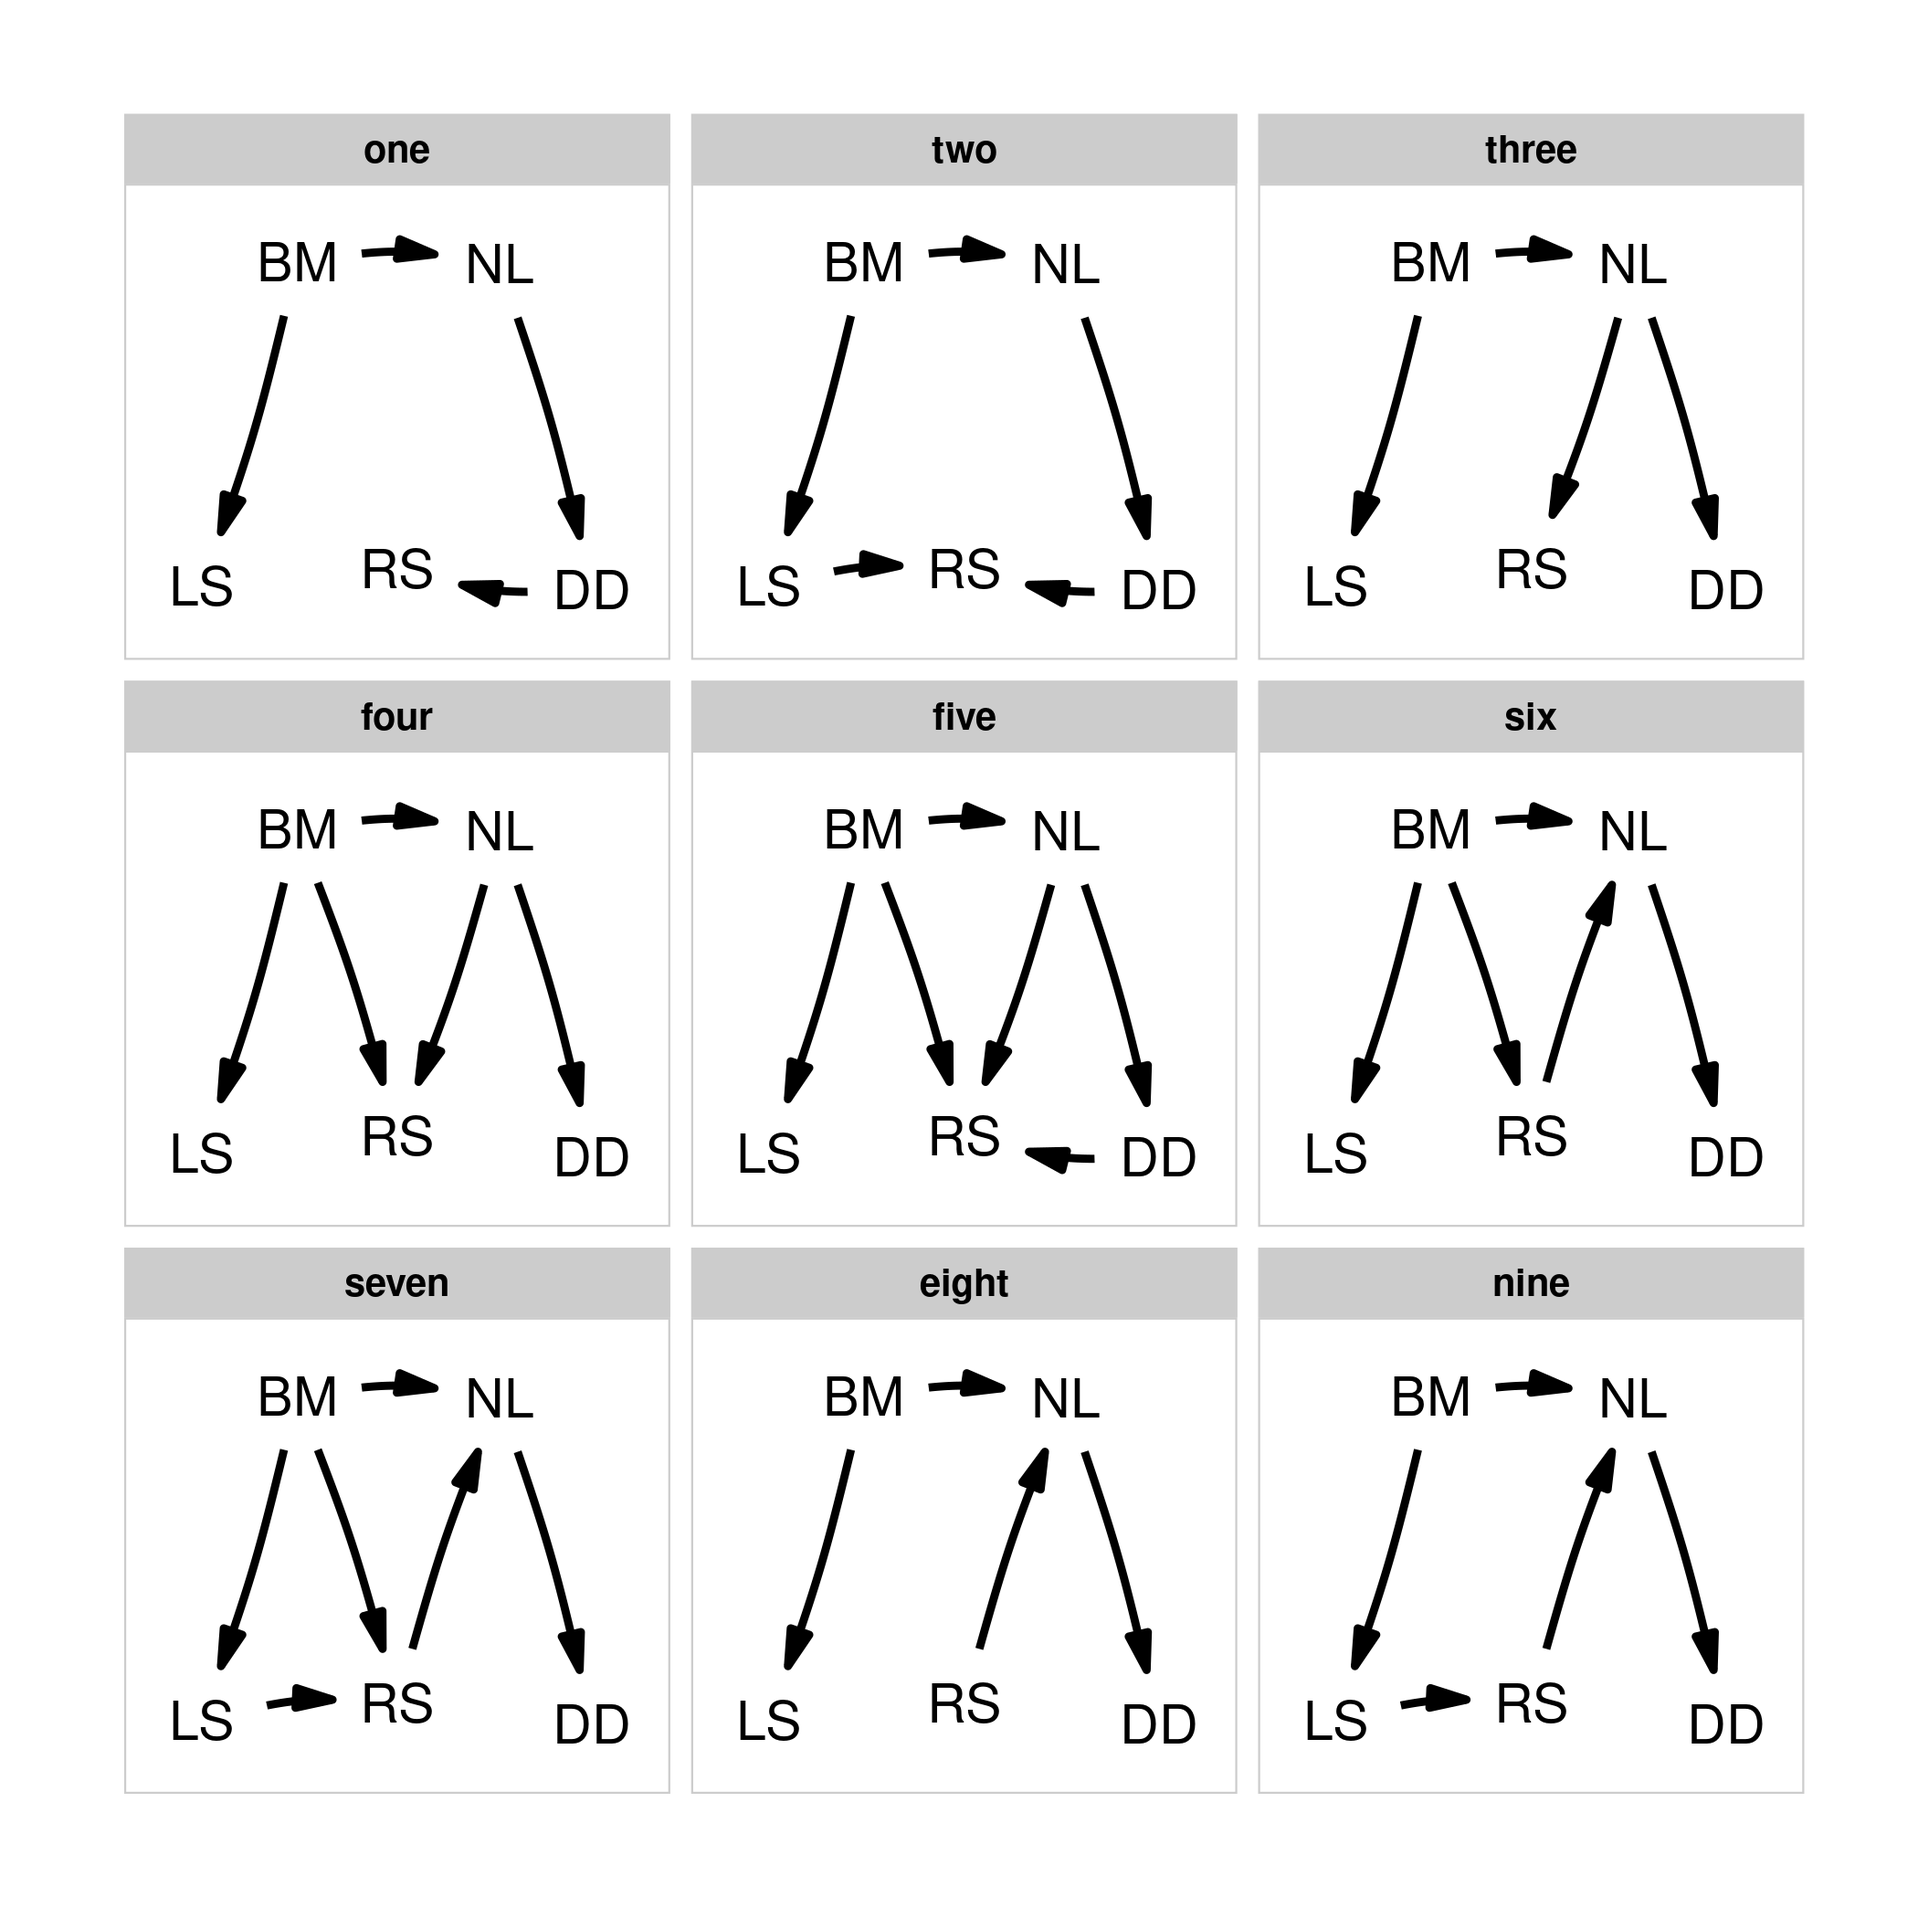
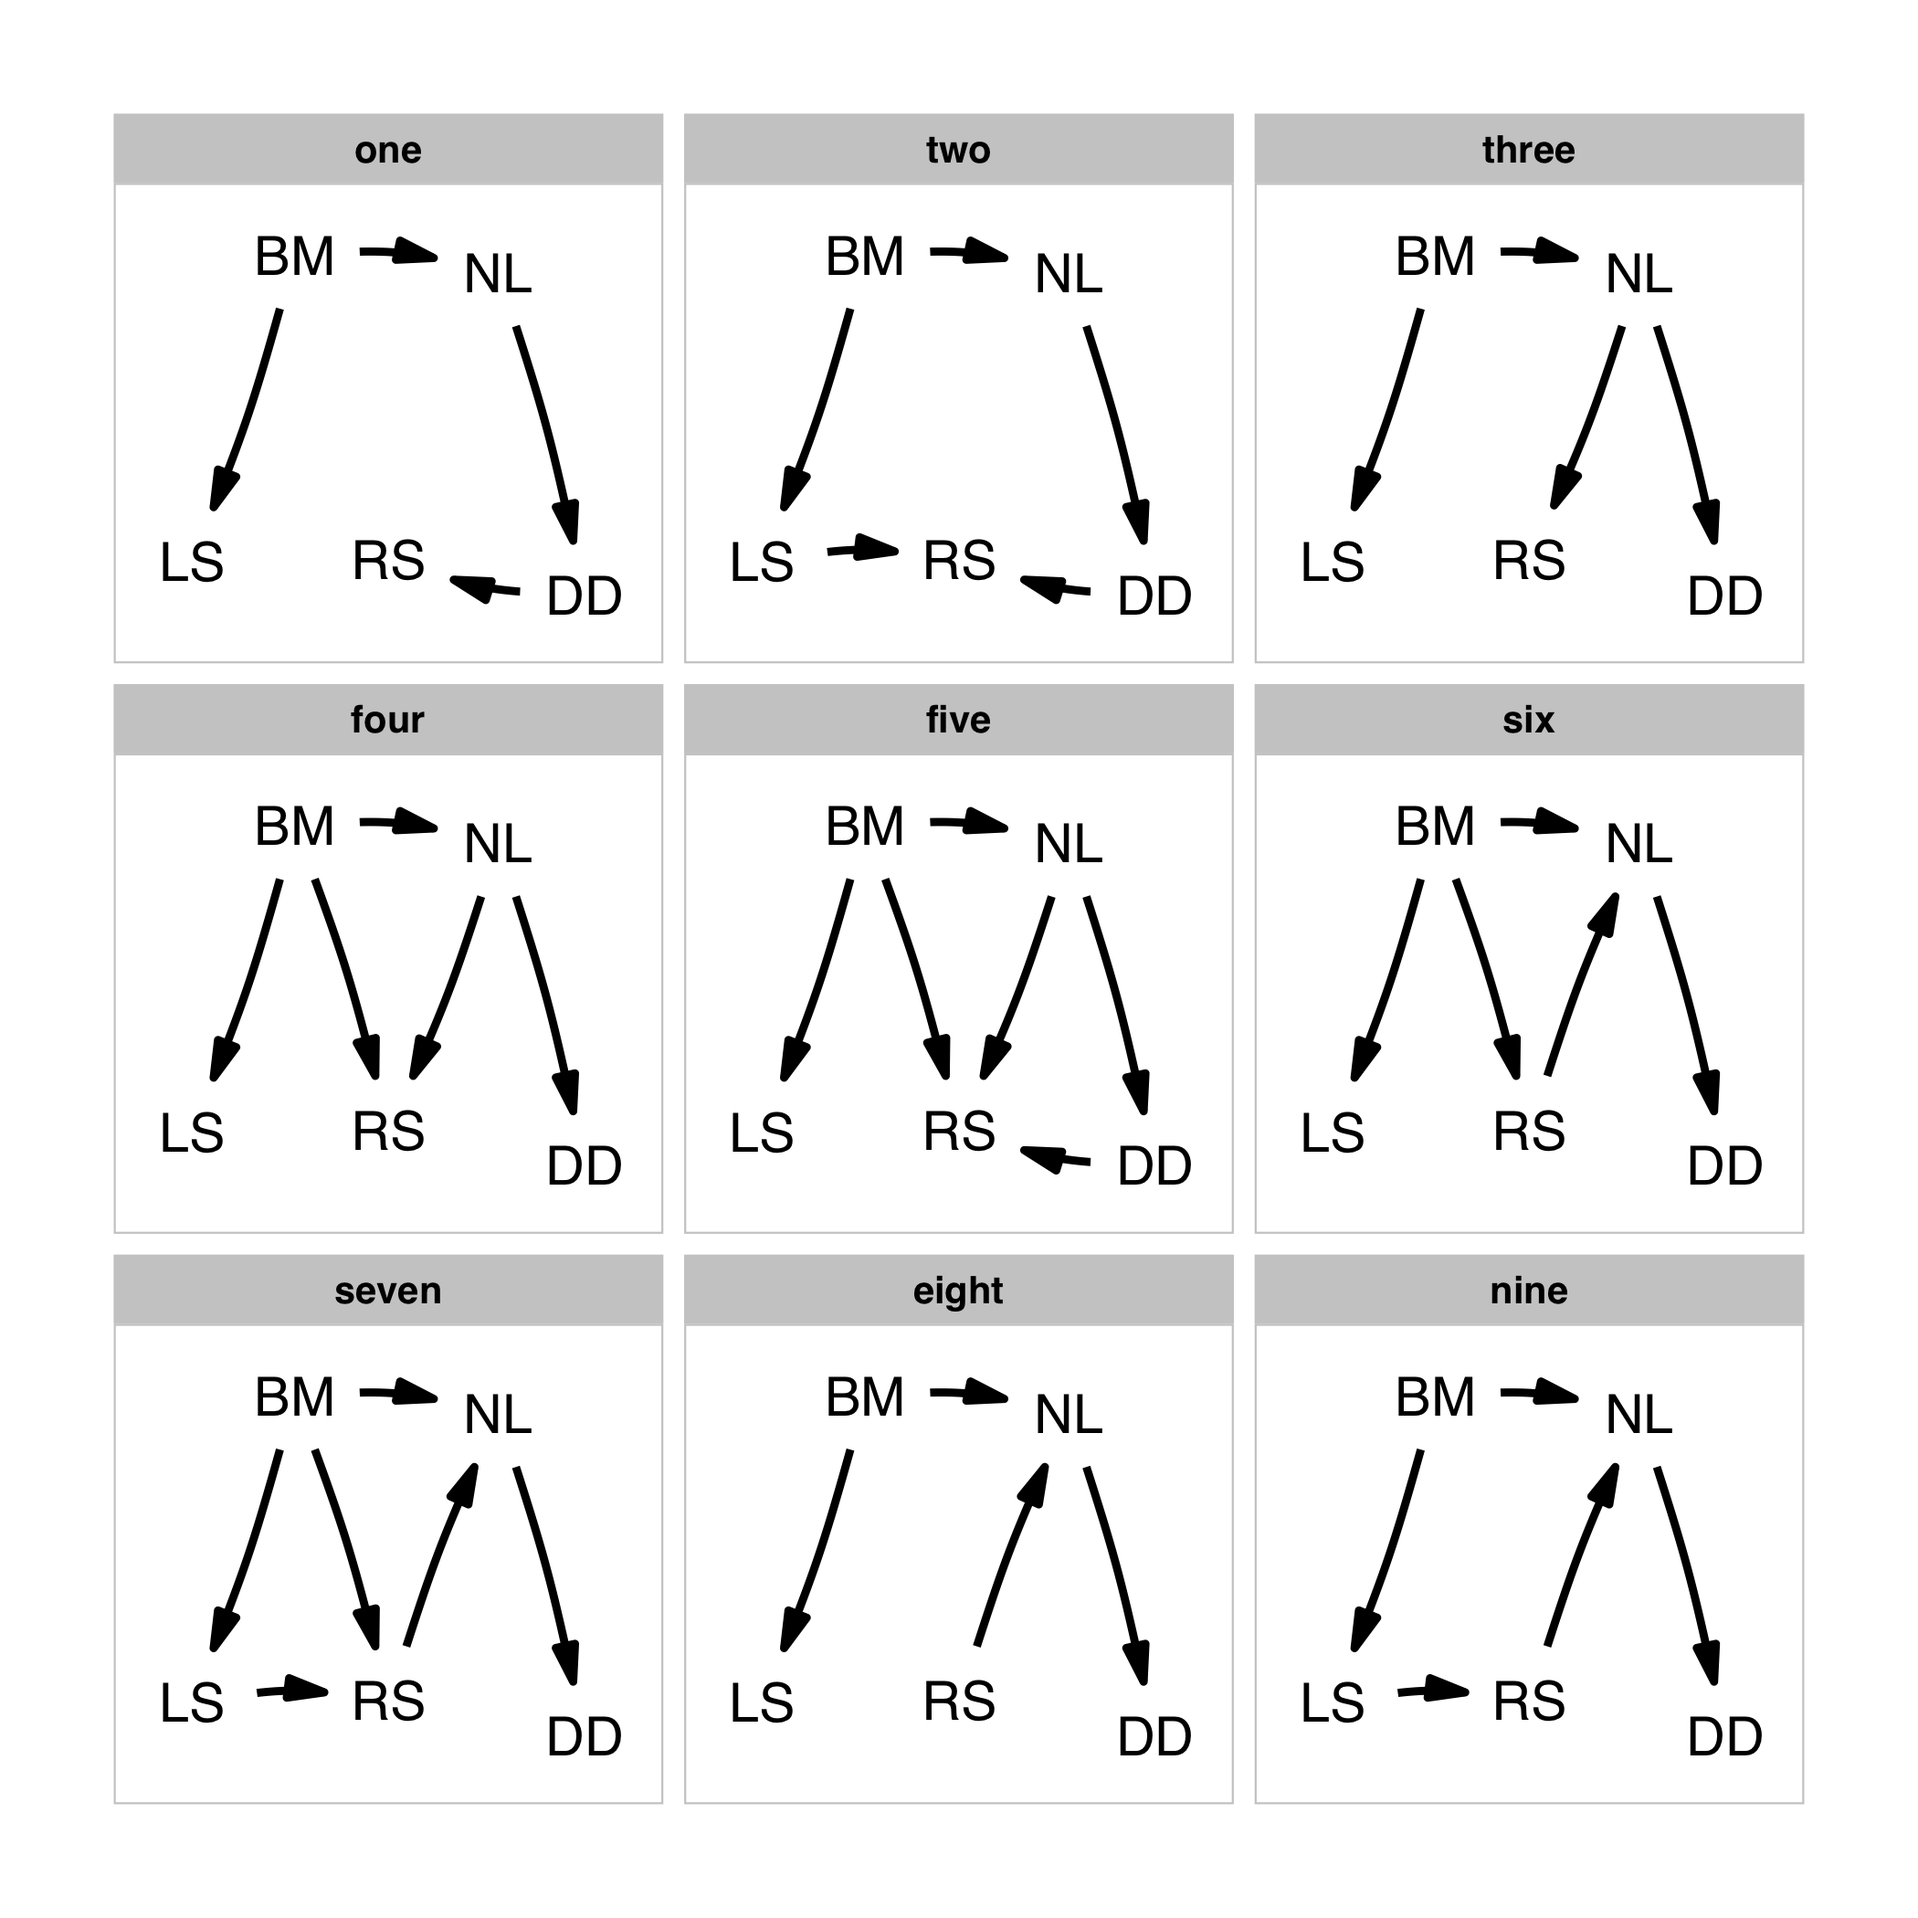
Give the vignettes real titles and add alt-text to all figures

diff --git a/index.md b/index.md
@@ -4,9 +4,9 @@ Use the `phylopath` package for an easy to use framework to perform
 phylogenetic path analysis (PPA).
 
 PPA can be used to compare support for competing causal models of trait
-evolution, while taking shared ancestry into account. All you need is:
-1. A clear set of models to test. 2. A data set of species with trait
-values. 3. A phylogeny of your species.
+evolution, while taking shared ancestry into account. All you need
+is: 1. A clear set of models to test. 2. A data set of species with
+trait values. 3. A phylogeny of your species.
 
 For a complete worked example, click “Get Started” above, or see the
 [PeerJ paper](https://doi.org/10.7717/peerj.4718).
@@ -14,8 +14,10 @@ For a complete worked example, click “Get Started” above, or see the
 This method was developed by Von Hardenberg and Gonzalez-Voyer. See
 `citation()` for info on correct citations.
 
-<img src="man/figures/unnamed-chunk-2-1.png" width="600px" style="display: block; margin: auto;" />
+<img src="man/figures/unnamed-chunk-2-1.png" alt="A grid of nine small causal diagrams, one per candidate model, each showing directed arrows between the five rhinograde traits body mass, litter size, nose length, dry days and range size." width="600px" style="display: block; margin: auto;" />
 
-<img src="man/figures/unnamed-chunk-3-1.png" width="600px" style="display: block; margin: auto;" />
+<img src="man/figures/unnamed-chunk-3-1.png" alt="The fitted best supported causal model, with arrows labelled by their standardized path coefficients and drawn with a width proportional to the strength of the effect." width="600px" style="display: block; margin: auto;" />
 
-`phylopath` has been used by [>100 publications](https://scholar.google.ca/scholar?oi=bibs&hl=en&cites=5933615079034924484) so far!
+`phylopath` has been used by [&gt;100
+publications](https://scholar.google.ca/scholar?oi=bibs&hl=en&cites=5933615079034924484)
+so far!

diff --git a/NEWS.md b/NEWS.md
@@ -47,6 +47,9 @@ reporting, and adds unit tests, all from a review by Claude.
   function that does not exist, and restored two `coef_plot()` examples in the
   introduction that had been commented out.
 
+* The vignettes now have descriptive titles in the vignette index, and all
+  figures have alt-text.
+
 * Added a unit test suite covering the d-separation basis set, the model
   comparison statistics, model averaging, and the plotting functions.
 
